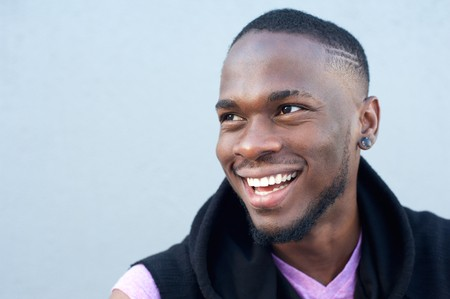
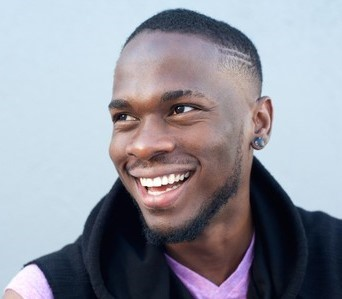
LIRE DESCRIPTION
- toutes les images du dossier photo ont été renommées
- les photos sont toutes dans le dossier images pour eviter
- dossier photo
- page Kamarade mis à jour avec les photos mises à jour

diff --git a/Les Kamarades.html b/Les Kamarades.html
@@ -33,7 +33,7 @@ Rouge= #ce0018
       <nav class="navbar navbar-expand-lg navbar-light bg-light">
         <div class="container">
 
-            <a href="index.html"><img src="images/Logo%20Kamunity%20vert%20png.png" height="50%" width="50em" align="left"/></a>
+            <a href="index.html"><img src="images/header_logo_kamunity.png" height="50%" width="50em" align="left"/></a>
     
           <button class="navbar-toggler" type="button" data-toggle="colla pse" data-target="#navbarsExample05" aria-controls="navbarsExample05" aria-expanded="false" aria-label="Toggle navigation">
             <span class="navbar-toggler-icon"></span>
@@ -61,14 +61,14 @@ Rouge= #ce0018
                 <a class="nav-link active" href="Contact.html">Nous contacter</a>
               </li>
             </ul>
-            <a href="https://www.instagram.com/kamunity_/?igshid=139lb2h9i9ei6=fr" target="_blank"><img src="Photos/instagram.png" height="50%" width="50em" align="left"/></a>
+            <a href="https://www.instagram.com/kamunity_/?igshid=139lb2h9i9ei6=fr" target="_blank"><img src="images/instagram.png" height="50%" width="50em" align="left"/></a>
           </div>
         </div>
       </nav>
     </header>
     <!-- END header -->
 
-    <section class="site-hero site-sm-hero overlay" data-stellar-background-ratio="0.5" style="background-image: url(Photos/Hero%20les%20Kamarades%20.JPG);"; style="background-size: contain">
+    <section class="site-hero site-sm-hero overlay" data-stellar-background-ratio="0.5" style="background-image: url(images/Hero_page_Kamarades%20.JPG);"; style="background-size: contain">
       <!-- Intégrer Image Carré D'as -->
       <div class="container">
         <div class="row align-items-center justify-content-center site-hero-sm-inner">
@@ -93,7 +93,7 @@ Rouge= #ce0018
           </div>
         </div>
       <div class="block-3 d-md-flex pt-5">
-        <div class="image" style="background-image: url(Photos/Lutte%20contre%20le%20coronavirus%20et%20engagement%20f%C3%A9minin%20au%20Togo.JPG); height:35em"></div>
+        <div class="image" style="background-image: url(images/Photo_nabillahtou.JPG); height:35em"></div>
         <div class="text">
           <h4 class="subheading" style=color:black>Ambassadrice de Kamunity au Togo</h4>
           <h2 class="heading"> Ismaila Nabillahtou </h2>
@@ -102,30 +102,30 @@ Rouge= #ce0018
         </div>
       </div>
       <div class="block-3 d-md-flex">
-        <div class="image order-2" style="background-image: url(Photos/Tatiana%20Photo%20les%20kamarades.jpg); height: 35em"></div>
+        <div class="image order-2" style="background-image: url(images/Tatiana_Photo.jpg); height: 35em"></div>
         <div class="text order-1">
           <h4 class="subheading" style=color:black> Membre de l'association </h4>
           <h2 class="heading"> Tatiana Borelva </h2>
           <p> Avec le temps nous avons appris que les hommes ne pouvaient être libres qu’à la force de leurs mains et de leurs esprits. Et dans ce monde rempli de défis le savoir est plus qu’une nécessité. Nous unissons nos forces pour faire avancer chaque jour les causes qui nous tiennent à cœur avec l’espoir de participer à l’édification d’un monde meilleur. </p>
-            <img src="Photos/instagram.png" style="height: 2em;width: 2em">
+            <img src="images/instagram.png" style="height: 2em;width: 2em">
         </div>
       </div>
       <div class="block-3 d-md-flex">
-        <div class="image" style="background-image: url(Photos/Khodia%20Ciss%C3%A9.jpg);height: 35em"></div>
+        <div class="image" style="background-image: url(images/Khodia_photo.jpg);height: 35em"></div>
         <div class="text">
           <h4 class="subheading" style=color:black> Membre de l'association</h4>
           <h2 class="heading"> Khodia Cissé</h2>
           <p> Kamunity de mon point de vue, est une association qui a pour but de rassembler la jeunesse de la diaspora africaine, elle nous permet de nouer un lien à une partie de notre identité, d’explorer notre continent. J’en apprend beaucoup chaque jour, et j’ai encore plus envie de mener des actions qui seront bénéfiques à mon pays, à mon continent.</p>
-            <img src="Photos/instagram.png" style="height: 2em;width: 2em">
+            <img src="images/instagram.png" style="height: 2em;width: 2em">
         </div>
       </div>
        <div class="block-3 d-md-flex">
-        <div class="image order-2" style="background-image: url(Photos/Photo%20Ibrahim%20Les%20Kamarades%202.jpg);height: 35em "></div>
+        <div class="image order-2" style="background-image: url(images/Ibrahim_photo.jpg);height: 35em "></div>
         <div class="text order-1">
           <h4 class="subheading" style=color:black>Membre de l'association</h4>
           <h2 class="heading">Ibrahim Seck</h2>
           <p> L'engagement auprès de mon pays et de mon continent m'a toujours animé. Avec kamunity, nous comptons fructifier cette volonté qui anime des millions de jeunes africains partout dans le monde. C'est par l'union que nous réussirons à vaincre les défis de notre communauté. </p>
-            <img src="Photos/instagram.png" style="height: 2em;width: 2em">
+            <img src="images/instagram.png" style="height: 2em;width: 2em">
         </div>
     </div>
    
